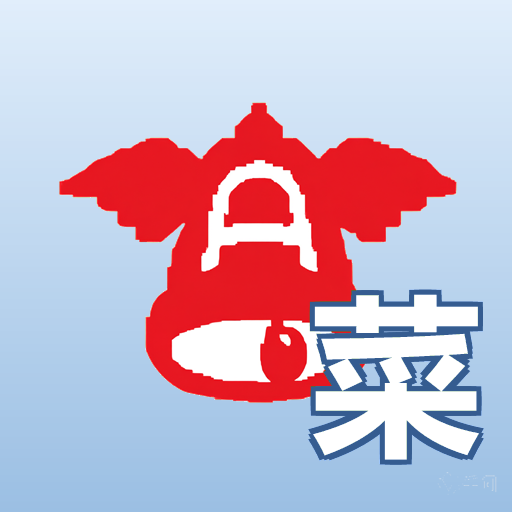
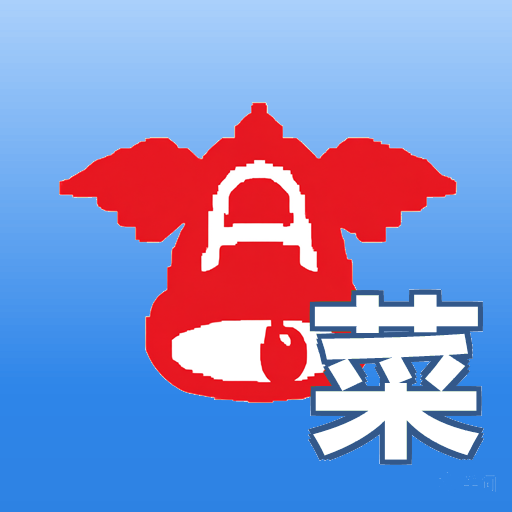
ui: 图标蓝色加深(提高饱和度)，解决手机上偏白

diff --git a/sw.js b/sw.js
@@ -2,7 +2,7 @@
 // 修复点：静态资源由“缓存优先、后台更新”改为“网络优先、断网回退缓存”。
 // 这样改动页面/JS 后，用户无需手动升级版本号也能在下次联网时加载到新版本；
 // 同时保留断网时回退到已缓存资源的离线能力。
-const CACHE_NAME = 'bex-purchase-v20';
+const CACHE_NAME = 'bex-purchase-v21';
 
 // 相对路径，部署在二级目录（如 /menu/）时也能正确缓存
 const SHELL = ['./', './index.html', './manifest.json', './icon-192.png', './icon-512.png', './xlsx.full.min.js', './supabase.min.js'];
